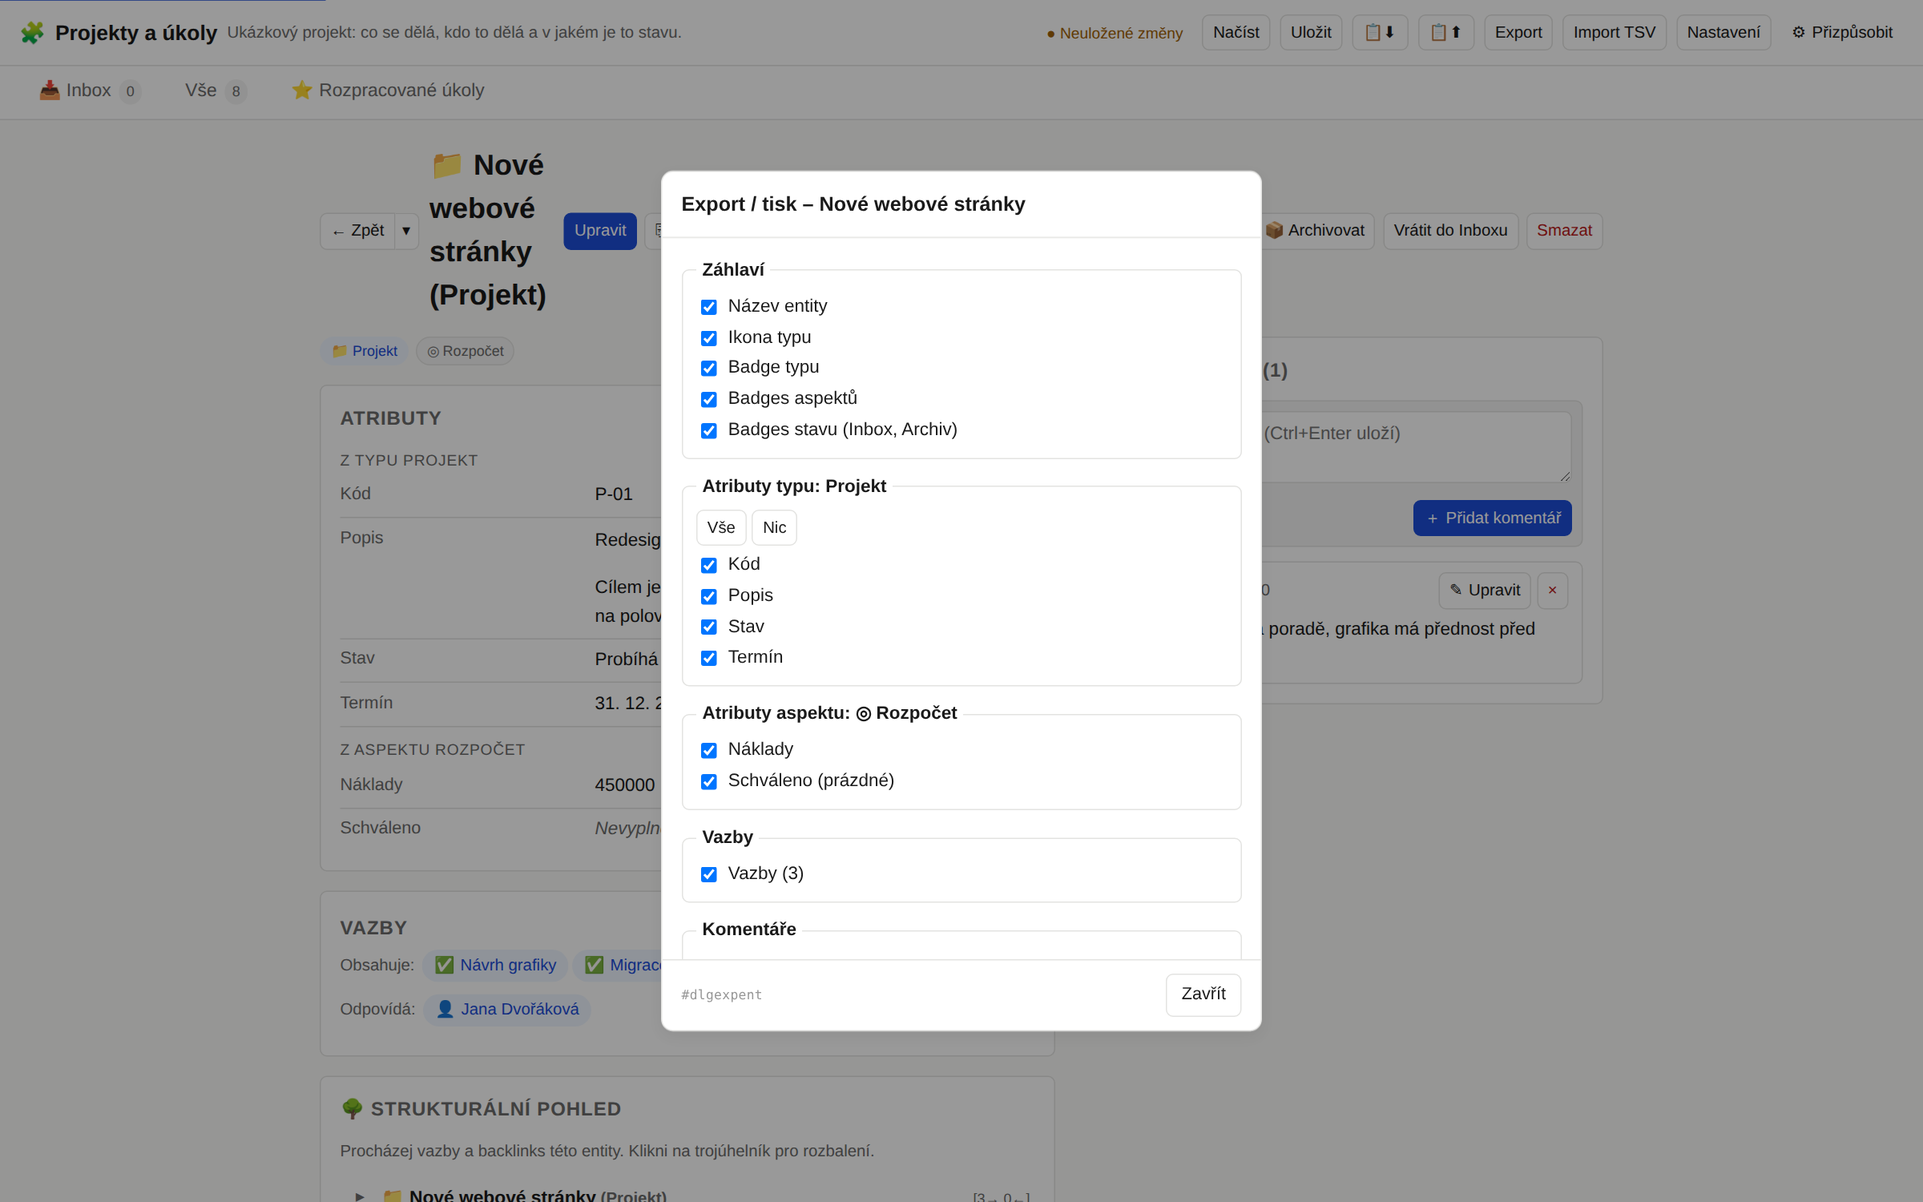
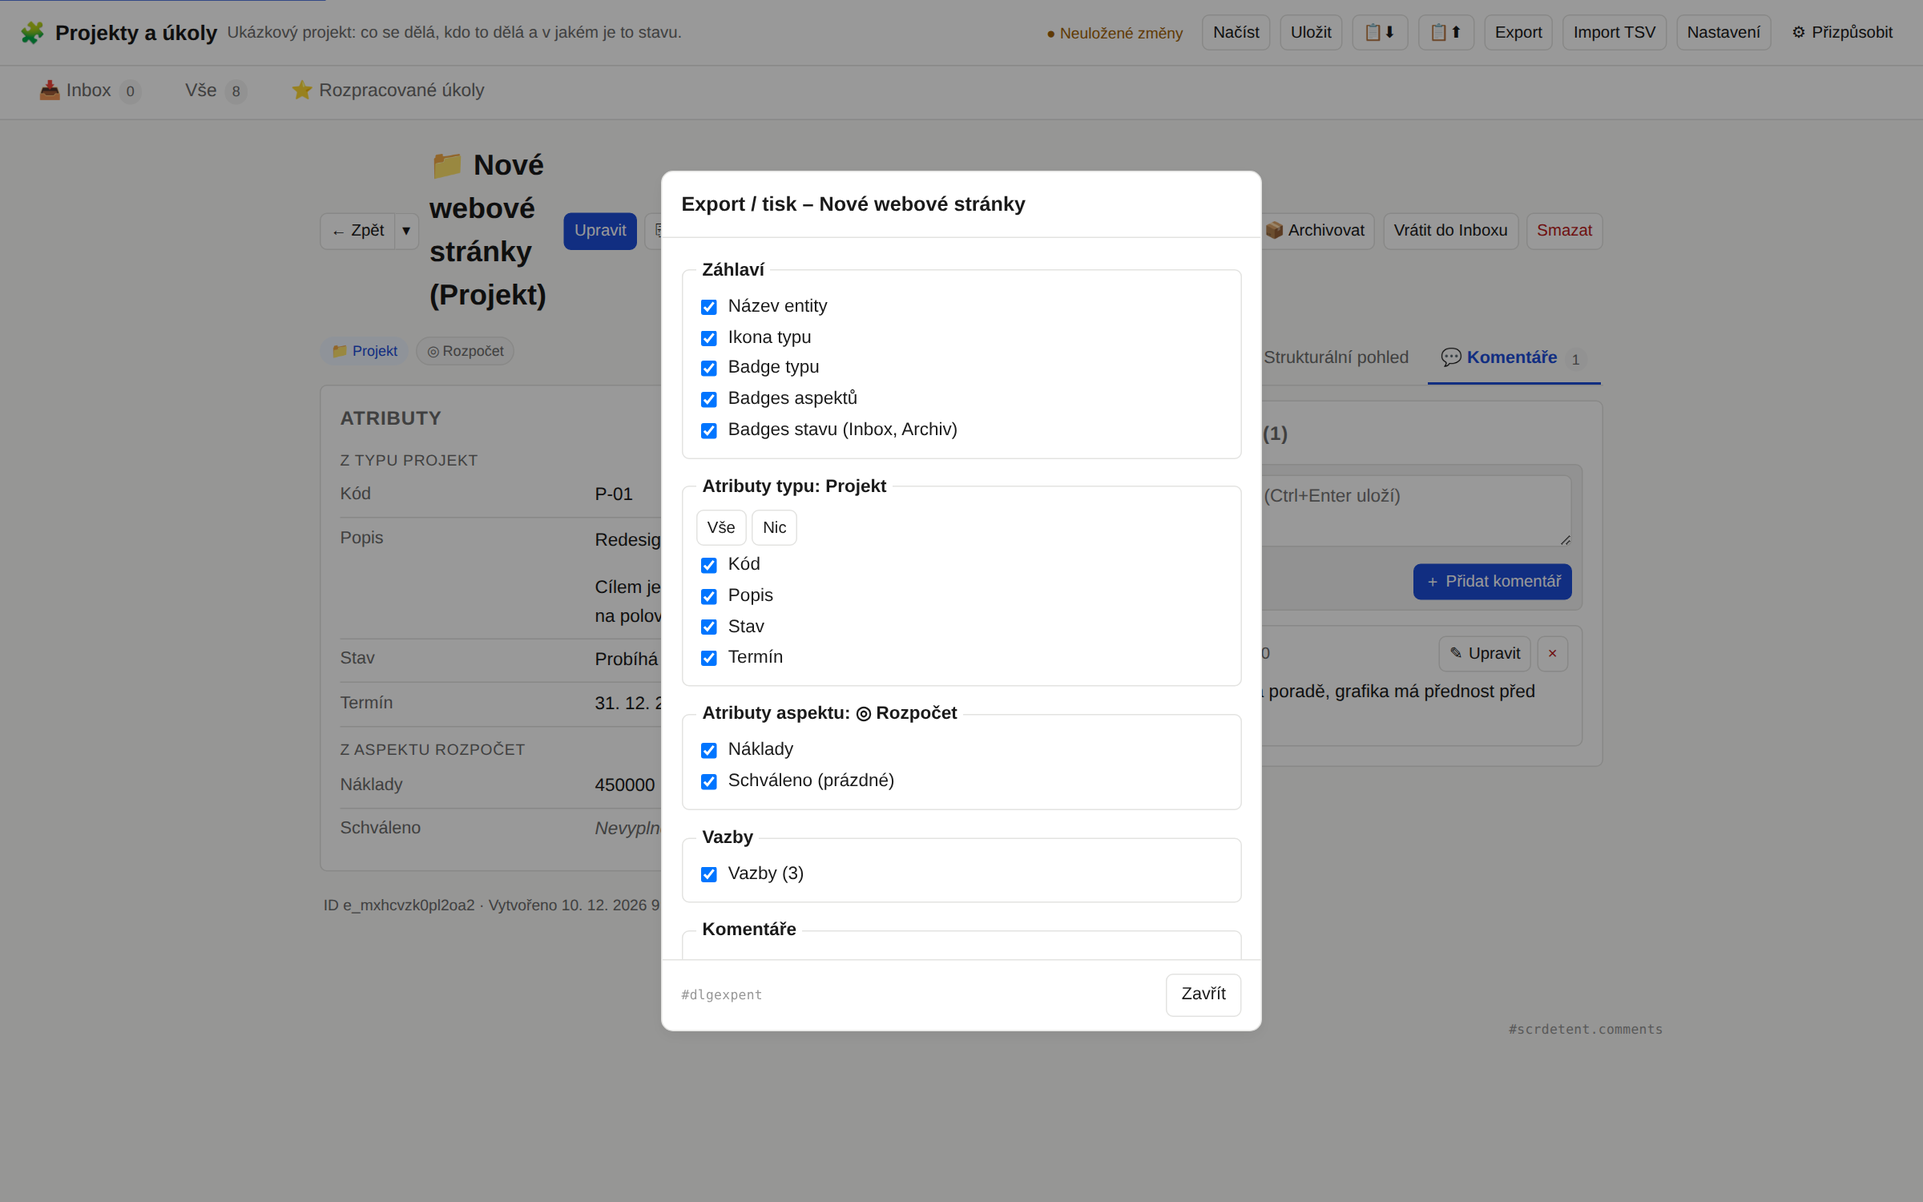
DKM: detail entity — vlevo atributy, vpravo karty s okolím entity
Pravý sloupec dosud nesl jen komentáře a byl ze dvou třetin prázdný
(389 px obsahu ve sloupci vysokém 1225 px), zatímco vlevo se všechno
kupilo pod sebe.

Nově vlevo zůstává to, co entita je — atributy a objekty, pořád vidět.
Vpravo je její okolí v kartách:

- Vazby (a pod nimi Odkazuje sem — je to týž vztah z opačné strany,
  proto jedna karta), se značkou 3→ 4← v názvu
- Strukturální pohled, jen u entity, která nějakou vazbu má
- Komentáře s počtem

Počty jsou v názvech karet schválně: u schované sekce jinak není poznat,
že vůbec něco obsahuje. Značka je jen pro oči, odečítači se počty říkají
slovy v aria-label.

Sekce si uvnitř karet nechávají svoje nadpisy, aby se po detailu dalo dál
pohybovat po nadpisech. Mezi kartami jezdí šipky, Home a End.

Metadata jsou místo vlastní sekce jeden nenápadný řádek pod oběma sloupci.
Patří tam proto, že v úzkém okně, v náhledu vedle seznamu a v samostatném
okně se sloupce skládají pod sebe a jde celý levý, pak celý pravý — kdyby
metadata zůstala vlevo, četlo by se „ID a datum" dřív než vazby.

Výška detailu klesla z 1225 px na 788 px.

Vybraná karta se promítá do identifikátoru obrazovky (#scrdetent.rels).
Generátor snímků příručky musel dostat krok navíc — pole pro komentář je
teď za kartou a sám si to odhalil.

Claude-Session: https://claude.ai/code/session_01L2XgGuFioMVDKxAYHih14f

diff --git a/dkm/index.html b/dkm/index.html
@@ -346,6 +346,17 @@ main{max-width:1100px;margin:0 auto;padding:1.25rem 1rem 4rem}
 .dt{flex:1;margin:0;font-size:1.5rem;min-width:0}
 .dact{display:flex;gap:.4rem;flex-wrap:wrap}
 .dsec{background:var(--sf);border:1px solid var(--bd);border-radius:var(--r);padding:1rem;margin-bottom:1rem}
+/* Karty v pravém sloupci detailu. Nadpisy sekcí uvnitř zůstávají — odečítač
+   se po nich pohybuje stejně jako dřív, karty jsou navíc, ne místo nich. */
+.dtabs{display:flex;gap:.25rem;flex-wrap:wrap;border-bottom:1px solid var(--bd);margin-bottom:.75rem}
+.dtab{appearance:none;background:transparent;border:none;border-bottom:2px solid transparent;padding:.5rem .7rem;cursor:pointer;color:var(--mu);font:inherit;font-size:.9rem;display:inline-flex;align-items:center;gap:.35rem;border-radius:0;white-space:nowrap}
+.dtab:hover{color:var(--tx)}
+.dtab[aria-selected=true]{color:var(--ac);border-bottom-color:var(--ac);font-weight:600}
+.dtab-c{background:var(--sf2);color:var(--mu);padding:.05rem .4rem;border-radius:999px;font-size:.75rem;font-weight:400}
+.dpanel[hidden]{display:none}
+.dpanel>.dsec:last-child{margin-bottom:0}
+/* Metadata jako nenápadný řádek pod oběma sloupci, ne vlastní sekce. */
+.dmeta{font-size:.8rem;color:var(--mu);padding:.1rem .2rem 1rem;word-break:break-word}
 .dsec h3{margin:0 0 .75rem;font-size:1rem;color:var(--mu);text-transform:uppercase;letter-spacing:.04em;font-weight:600}
 .arow{display:grid;grid-template-columns:200px 1fr;gap:.75rem;padding:.4rem 0;border-bottom:1px solid var(--bd);align-items:start}
 .arow:last-child{border-bottom:none}
@@ -537,7 +548,7 @@ selectorDiagInboxNoType:'{n} entit je v Inboxu bez typu – otevři je a nastav 
 selectorDiagNoEntities:'V projektu nejsou žádné entity typu {type}. Vytvoř první přes tlačítko níže nebo přes Nové.',
 selectorDiagNoFilter:'Z {n} entit v projektu žádná nesplnila filtry.',
 selectAspect:'Vyber aspekt',selectRelationType:'Typ vazby',selectTargetEntity:'Cílová entita',
-scrIdLabel:'Identifikátor obrazovky',dndHint:'Pořadí změníš i přetažením myší.',dndMoved:'Přesunuto na pozici {n} z {z}.',settingsTypes:'Typy entit',settingsAspects:'Aspekty',settingsRelations:'Typy vazeb',settingsLists:'Seznamy',settingsTabs:'Záložky',settingsGeneral:'Obecné',settingsStats:'Statistiky',settingsHelp:'Nápověda',
+scrIdLabel:'Identifikátor obrazovky',detailTabsLabel:'Vazby, struktura a komentáře',detailRelsCount:'{out} odchozích, {in} příchozích',dndHint:'Pořadí změníš i přetažením myší.',dndMoved:'Přesunuto na pozici {n} z {z}.',settingsTypes:'Typy entit',settingsAspects:'Aspekty',settingsRelations:'Typy vazeb',settingsLists:'Seznamy',settingsTabs:'Záložky',settingsGeneral:'Obecné',settingsStats:'Statistiky',settingsHelp:'Nápověda',
 settingsTypesDesc:'Typy entit definují strukturu hlavních dat. Každý typ má vlastní sadu atributů.',
 settingsAspectsDesc:'Aspekty jsou doplňkové sady atributů, které lze přiřadit k jakékoliv entitě navíc k jejímu typu.',
 settingsRelationsDesc:'Definuj typy vazeb mezi entitami. Mohou být univerzální nebo omezené na konkrétní typy.',
@@ -1092,7 +1103,7 @@ selectorDiagInboxNoType:'{n} entities in Inbox without type – open them and se
 selectorDiagNoEntities:'No entities of type {type} in the project. Create one with the button below or via New.',
 selectorDiagNoFilter:'Of {n} entities in project, none matched the filters.',
 selectAspect:'Select aspect',selectRelationType:'Relation type',selectTargetEntity:'Target entity',
-scrIdLabel:'Screen identifier',dndHint:'You can also drag to reorder.',dndMoved:'Moved to position {n} of {z}.',settingsTypes:'Entity types',settingsAspects:'Aspects',settingsRelations:'Relation types',settingsLists:'Lists',settingsTabs:'Tabs',settingsGeneral:'General',settingsStats:'Statistics',settingsHelp:'Help',
+scrIdLabel:'Screen identifier',detailTabsLabel:'Relations, structure and comments',detailRelsCount:'{out} outgoing, {in} incoming',dndHint:'You can also drag to reorder.',dndMoved:'Moved to position {n} of {z}.',settingsTypes:'Entity types',settingsAspects:'Aspects',settingsRelations:'Relation types',settingsLists:'Lists',settingsTabs:'Tabs',settingsGeneral:'General',settingsStats:'Statistics',settingsHelp:'Help',
 settingsTypesDesc:'Entity types define the structure of your main data. Each type has its own attribute set.',
 settingsAspectsDesc:'Aspects are optional attribute sets you can attach to any entity in addition to its type.',
 settingsRelationsDesc:'Define relation types between entities. They can be universal or restricted to specific types.',
@@ -3296,6 +3307,9 @@ const SCR_NASTAVENI={project:'scrsetproj',types:'scrsettypes',aspects:'scrsetasp
 lists:'scrsetlists',views:'scrsetviews',tabs:'scrsettabs',github:'scrsetgh',ai:'scrsetai',
 model:'scrsetmodel',dupes:'scrsetdupes',general:'scrsetgen',stats:'scrsetstats',help:'scrsethelp'};
 const SCR_NASTAVENI_POLOZKA={types:'scrsettype',aspects:'scrsetasp',relations:'scrsetrel'};
+/* Vybraná karta v detailu entity — jiná karta ukazuje jiný obsah, tak ať je to
+   z identifikátoru poznat, stejně jako režim zobrazení u seznamu. */
+const SCR_KARTA={rels:'.rels',tree:'.tree',comments:'.comments'};
 /* Režim zobrazení se připojuje za tečkou; prostý seznam příponu nemá. */
 const SCR_REZIM={table:'.table',kanban:'.kanban',calendar:'.cal',timeline:'.timeline'};
 
@@ -3320,7 +3334,7 @@ const st=v.settingsTab||'types';
 if(v.settingsItemId&&SCR_NASTAVENI_POLOZKA[st])return SCR_NASTAVENI_POLOZKA[st];
 return SCR_NASTAVENI[st]||'scrset';
 }
-if(v.name==='detail')return 'scrdetent';
+if(v.name==='detail')return 'scrdetent'+(SCR_KARTA[_detailTab]||'');
 if(v.name==='edit')return 'scredent';
 if(v.name==='new')return 'scrnewent';
 if(v.name==='allComments')return 'scrcomments';
@@ -4621,6 +4635,68 @@ state.data.entities.push(e);setDirty(true);return e;
 
 
 /* DETAIL */
+/* Která karta v pravém sloupci detailu je vybraná. Drží se mimo `state.view`,
+   protože navigace ho nahrazuje výchozími hodnotami a přepnutá karta má přežít
+   i skok na jinou entitu. Do dat projektu to nepatří. */
+let _detailTab='rels';
+
+/* Karty pravého sloupce. `karty` je pole {id, popis, ikona, znacka, jmeno, sekce}.
+   Sekce si nesou svoje `<h3>` — karty jsou navíc, ne místo nadpisů, aby se po
+   detailu dalo dál pohybovat po nadpisech. */
+function renderDetailTabs(karty){
+if(!karty.some(k=>k.id===_detailTab))_detailTab=karty[0].id;
+const w=document.createElement('div');
+const strip=document.createElement('div');strip.className='dtabs';
+strip.setAttribute('role','tablist');strip.setAttribute('aria-label',t('detailTabsLabel'));
+const tlacitka=[];
+karty.forEach(k=>{
+const vybrana=k.id===_detailTab;
+const b=document.createElement('button');b.type='button';b.className='dtab';
+b.setAttribute('role','tab');b.id='dtab-'+k.id;b.setAttribute('aria-controls','dpan-'+k.id);
+b.setAttribute('aria-selected',vybrana?'true':'false');
+b.tabIndex=vybrana?0:-1;
+b.appendChild(document.createTextNode((k.ikona?k.ikona+' ':'')+k.popis));
+if(k.znacka){const c=document.createElement('span');c.className='dtab-c';c.textContent=k.znacka;c.setAttribute('aria-hidden','true');b.appendChild(c)}
+/* Značka je jen pro oči; odečítači se počty řeknou slovy. */
+if(k.jmeno)b.setAttribute('aria-label',k.jmeno);
+b.addEventListener('click',()=>prepni(k.id));
+tlacitka.push(b);strip.appendChild(b);
+});
+w.appendChild(strip);
+const panely={};
+karty.forEach(k=>{
+const pan=document.createElement('div');pan.className='dpanel';pan.id='dpan-'+k.id;
+pan.setAttribute('role','tabpanel');pan.setAttribute('aria-labelledby','dtab-'+k.id);
+pan.tabIndex=0;
+k.sekce.forEach(x=>pan.appendChild(x));
+pan.hidden=k.id!==_detailTab;
+panely[k.id]=pan;w.appendChild(pan);
+});
+function prepni(id,fokus){
+_detailTab=id;
+tlacitka.forEach(b=>{
+const vyb=b.id==='dtab-'+id;
+b.setAttribute('aria-selected',vyb?'true':'false');
+b.tabIndex=vyb?0:-1;
+if(vyb&&fokus)b.focus();
+});
+Object.keys(panely).forEach(k=>{panely[k].hidden=k!==id});
+zobrazIdObrazovky();
+}
+/* Šipkami mezi kartami, jak se od role tablist čeká. */
+strip.addEventListener('keydown',ev=>{
+const i=karty.findIndex(k=>k.id===_detailTab);
+let ni=-1;
+if(ev.key==='ArrowRight')ni=(i+1)%karty.length;
+else if(ev.key==='ArrowLeft')ni=(i-1+karty.length)%karty.length;
+else if(ev.key==='Home')ni=0;
+else if(ev.key==='End')ni=karty.length-1;
+if(ni<0)return;
+ev.preventDefault();prepni(karty[ni].id,true);
+});
+return w;
+}
+
 function renderDetail(idOverride,opts){
 const vnorene=!!(opts&&opts.embedded);
 const e=findEntity(idOverride||state.view.entityId);
@@ -4715,11 +4791,11 @@ g[k].forEach(r=>{const tgt=findEntity(r.targetId);const x=document.createElement
 rs.appendChild(grp);
 });
 }
-mainCol.appendChild(rs);
 
 const bls=getRelsTo(e.id);
+let blS=null;
 if(bls.length){
-const blS=document.createElement('section');blS.className='dsec';blS.setAttribute('aria-labelledby','h-bl');
+blS=document.createElement('section');blS.className='dsec';blS.setAttribute('aria-labelledby','h-bl');
 const bh=document.createElement('h3');bh.id='h-bl';bh.textContent=t('detailBacklinks');blS.appendChild(bh);
 const g={};bls.forEach(r=>{const k=(r.kind==='attribute'?'a:'+r.attrId:r.kind==='wikilink'?'w:'+(r.attrId||r.attrName):'r:'+(r.relationTypeId||'_'));g[k]=g[k]||{kind:r.kind,attrId:r.attrId,attrName:r.attrName,scopeLabel:r.scopeLabel,relationTypeId:r.relationTypeId,items:[]};g[k].items.push(r)});
 Object.keys(g).forEach(k=>{
@@ -4732,21 +4808,33 @@ grp.appendChild(lbl);
 info.items.forEach(r=>{const src=findEntity(r.sourceId);if(!src)return;const x=document.createElement('a');x.className='rch';x.href='#entity/'+r.sourceId;appendEntityLabel(x,src);grp.appendChild(x)});
 blS.appendChild(grp);
 });
-mainCol.appendChild(blS);
 }
 
 const objSec=renderObjectsSection(e);if(objSec)mainCol.appendChild(objSec);
-const cmtSec=renderCommentsSection(e);sideCol.appendChild(cmtSec);
 
+/* Pravý sloupec: karty. Vazby a Odkazuje sem jsou jedna karta — jsou to odchozí
+   a příchozí konec téže věci, jen se čtou z opačné strany. */
+const karty=[{id:'rels',popis:t('detailRelations'),
+znacka:(rels.length||bls.length)?(rels.length+'→ '+bls.length+'←'):'',
+jmeno:t('detailRelations')+': '+t('detailRelsCount',{out:rels.length,in:bls.length}),
+sekce:[rs,blS].filter(Boolean)}];
 const ol=renderOutlineSection(e);
-if(ol)mainCol.appendChild(ol);
+if(ol)karty.push({id:'tree',ikona:'🌳',popis:t('detailOutline'),sekce:[ol]});
+const cmtSec=renderCommentsSection(e);
+const pocetKom=(e.comments||[]).length;
+karty.push({id:'comments',ikona:'💬',popis:t('detailComments'),
+znacka:pocetKom?String(pocetKom):'',
+jmeno:t('detailComments')+(pocetKom?' ('+pocetKom+')':''),sekce:[cmtSec]});
+sideCol.appendChild(renderDetailTabs(karty));
 
-const ms=document.createElement('section');ms.className='dsec';ms.setAttribute('aria-labelledby','h-meta');
-const mh=document.createElement('h3');mh.id='h-meta';mh.textContent=t('detailMetadata');ms.appendChild(mh);
-const mt=document.createElement('div');
-const am=(k,v)=>{const r=document.createElement('div');r.className='arow';const l=document.createElement('div');l.className='alabel';l.textContent=k;const x=document.createElement('div');x.className='aval';x.textContent=v;r.appendChild(l);r.appendChild(x);mt.appendChild(r)};
-am('ID',e.id);am(t('created'),fmtDate(e.createdAt,true));am(t('updated'),fmtDate(e.updatedAt,true));
-ms.appendChild(mt);mainCol.appendChild(ms);
+/* Metadata jako jeden nenápadný řádek pod oběma sloupci. */
+const mline=document.createElement('div');mline.className='dmeta';
+/* Chybějící datum popisek nevypisuje — jinak by v řádku visel holý „Vytvořeno". */
+const casti=['ID '+e.id];
+const pridej=(popisek,iso)=>{const d=fmtDate(iso,true);if(d)casti.push(popisek+' '+d)};
+pridej(t('created'),e.createdAt);pridej(t('updated'),e.updatedAt);
+mline.textContent=casti.join(' · ');
+w.appendChild(mline);
 return w;
 }
 

diff --git a/dkm/CLAUDE.md b/dkm/CLAUDE.md
@@ -362,6 +362,27 @@ kolísat, hledej nový zdroj času nebo náhody, ne důvod, proč to nevadí.
 Zmrazený okamžik je prosinec 2026 schválně — je to měsíc, ve kterém má ukázkový projekt
 termín, takže snímek kalendáře není prázdný.
 
+## Detail entity — dva sloupce a karty
+Vlevo **co entita je** (atributy, objekty), vpravo **její okolí** v kartách
+(`renderDetailTabs`): Vazby (a v ní i Odkazuje sem — je to týž vztah z opačné strany),
+Strukturální pohled, Komentáře. Pod oběma sloupci jeden řádek `.dmeta` s ID a časy.
+
+**Karty nenahrazují nadpisy.** Každá sekce si uvnitř panelu nechává svoje `<h3>`, aby se
+po detailu dalo dál pohybovat po nadpisech. Kdo přidá kartu, ať v ní nadpis nechá.
+
+**Počty patří do názvu karty** (`3→ 4←`, `2`). Schované sekce jinak není poznat, že vůbec
+něco obsahují. Značka je jen pro oči (`aria-hidden`), odečítači se počty řeknou slovy
+v `aria-label`.
+
+**Pořadí sloupců rozhoduje i o čtení v jednom sloupci.** Pod 1200 px, v náhledu vedle
+seznamu a v samostatném okně se sloupce poskládají pod sebe a jde **celý levý, pak celý
+pravý** — prostřídat je nejde. Proto je vpravo i strom a metadata jsou až pod mřížkou;
+kdyby zůstaly vlevo, četlo by se na notebooku „ID a datum" dřív než vazby.
+
+Vybraná karta žije v `_detailTab` **mimo `state.view`** — `navigateTo` ho nahrazuje
+výchozími hodnotami a přepnutá karta má přežít skok na jinou entitu. Do dat projektu
+nepatří. Promítá se do identifikátoru obrazovky (`#scrdetent.rels`).
+
 ## Identifikátory obrazovek
 Každá obrazovka i dialog nese krátké interní id (`#scrallview.table`, `#dlgimppkg.step3`).
 Vypisuje se v patičce a leží v `data-scr` na `<body>` a na `<dialog>` — odtud ho čtou

diff --git a/dkm/docs-en.md b/dkm/docs-en.md
@@ -229,6 +229,26 @@ a real link, so middle-click or Ctrl+click opens it in a new tab.
 - **Heading** — type icon + entity name + type badge, aspect badges, status badges
 - **Actions**: Edit (E), Duplicate, Change type, 🖨 Export / print, 🪟 Standalone window, Archive, Delete
 - **Attributes** — filled attributes (type, aspects, custom)
+
+The detail is split in two. **On the left is what the entity is** — attributes and objects;
+those stay visible. **On the right is its surroundings and what is known about it**, switched
+by tabs:
+
+| Tab | What is on it |
+|---|---|
+| **Relations** `3→ 4←` | outgoing relations, and below them **Linked from**, the incoming ones. It is the same thing read from the other side, hence one tab. |
+| **🌳 Structural view** | a tree for walking the relations. The tab is only there for an entity that has some relation. |
+| **💬 Comments** `2` | the comments and the box for a new one |
+
+**The numbers next to a tab name are deliberate** — you do not have to click to find out
+whether there is anything. Left and right arrows move between tabs, Home jumps to the first,
+End to the last.
+
+At the very bottom there is a discreet line with the **ID, when the entity was created and
+when it last changed**.
+
+In a narrow window, in the preview beside the list and in the standalone window the columns
+stack: attributes first, then the tabs, and that line last.
 - **Relations** — entities relations point to, grouped by relation type
 - **Linked from** — entities that reference this one (classic relations, attribute-relations, wiki-links). Groups have different labels:
   - `relation name ←` (classic relations)

diff --git a/dkm/docs-cs.md b/dkm/docs-cs.md
@@ -228,6 +228,23 @@ skutečný odkaz — jde otevřít prostředním tlačítkem nebo Ctrl+klikem v 
 - **Nadpis** — ikona typu + název entity + badge typu, badges aspektů, stavu
 - **Akce**: Upravit (E), Duplikovat, Změnit typ, 🖨 Export / tisk, 🪟 V samostatném okně, Archivovat, Smazat
 - **Atributy** — vyplněné atributy (typu, aspektu, vlastní)
+
+Detail je rozdělený na dvě části. **Vlevo je to, co ta entita je** — atributy a objekty;
+ty vidíš pořád. **Vpravo je její okolí a co se o ní ví**, přepínané kartami:
+
+| Karta | Co je na ní |
+|---|---|
+| **Vazby** `3→ 4←` | odchozí vazby a pod nimi **Odkazuje sem**, tedy příchozí. Je to dvakrát totéž z opačné strany, proto jedna karta. |
+| **🌳 Strukturální pohled** | strom, kterým se dá po vazbách procházet. Karta je jen u entity, která nějakou vazbu má. |
+| **💬 Komentáře** `2` | komentáře a pole na nový |
+
+**Čísla u názvu karty jsou tam schválně** — nemusíš klikat, abys zjistil, jestli tam něco
+je. Mezi kartami se dá jezdit šipkami vlevo a vpravo, Home skočí na první, End na poslední.
+
+Úplně dole je nenápadný řádek s **ID, kdy entita vznikla a kdy se naposledy změnila**.
+
+V úzkém okně, v náhledu vedle seznamu a v samostatném okně se sloupce poskládají pod sebe:
+nejdřív atributy, pak karty, nakonec ten řádek.
 - **Vazby** — entity, kam vede vazba, seskupené podle typu vazby
 - **Odkazuje sem** — entity, které odkazují sem (klasické vazby, atributy typu relation, wiki-linky). Skupiny mají různé popisky:
   - `název vazby ←` (klasické vazby)

diff --git a/dkm/screens.md b/dkm/screens.md
@@ -63,6 +63,13 @@ je to seznam, jen s mezinadpisy.
 | Identifikátor | Obrazovka |
 |---|---|
 | `#scrdetent` | detail entity |
+| `#scrdetent.rels` | detail, karta Vazby (s Odkazuje sem) |
+| `#scrdetent.tree` | detail, karta Strukturální pohled |
+| `#scrdetent.comments` | detail, karta Komentáře |
+
+Detail entity má v pravém sloupci karty a vybraná karta se do identifikátoru promítá —
+je na ní vidět jiný obsah. Samotné `#scrdetent` bez přípony nenastane; karta je vždycky
+nějaká vybraná. Kartu stromu má jen entita, která má vazby.
 | `#scredent` | editace entity |
 | `#scrnewent` | zakládání nové entity |
 | `#scrcomments` | přehled všech komentářů |
